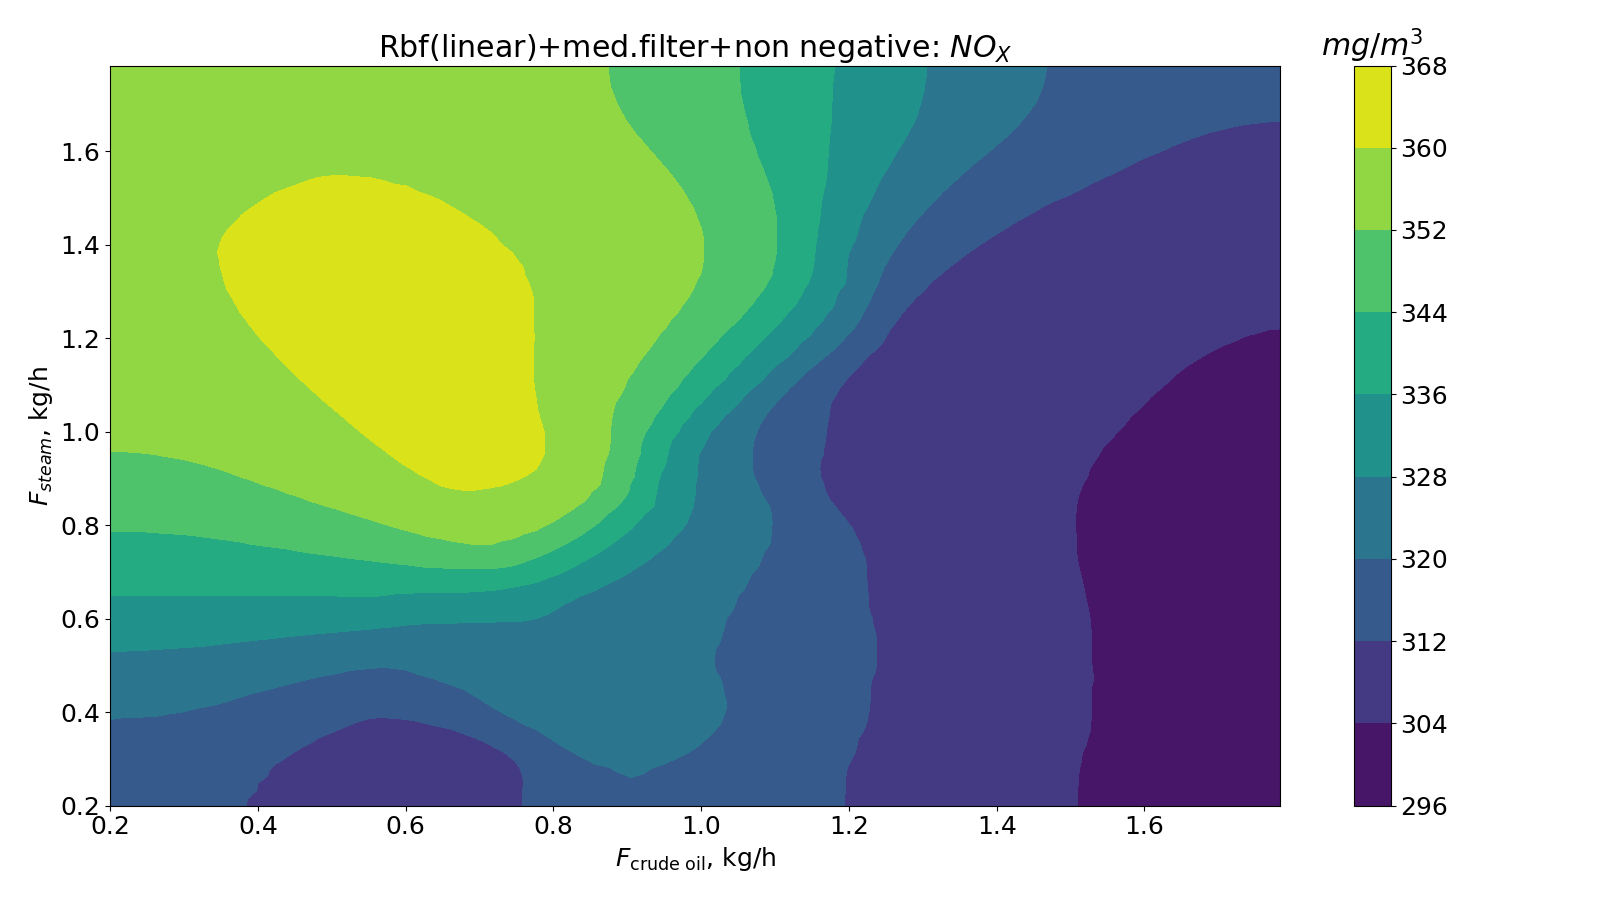
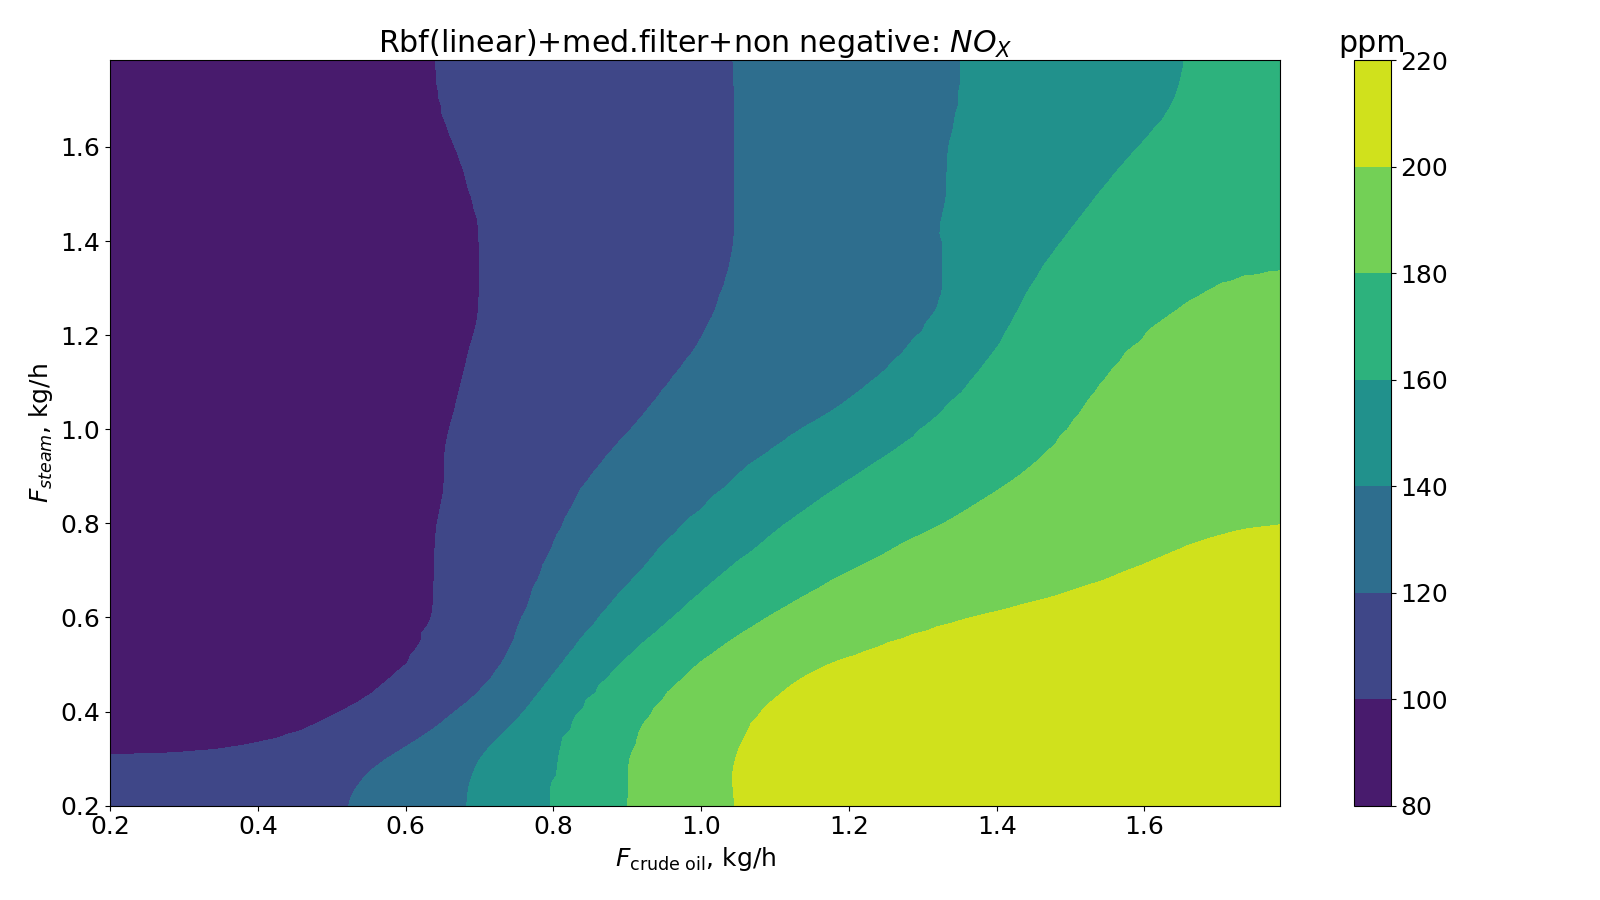
[Map] save_all_rbf_map добавлено сохранение всех карт в ppm и мг/м3

diff --git a/control/map.py b/control/map.py
@@ -110,7 +110,9 @@ class Map:
         Метод, который сохраняет аппроксимативные карты, созданные с помощью RbfInterpolator(linear), с удаленными
         отрицательными значениями и применением медианного фильтра.
         """
+        # Сохранение карт в ppm
         for experiment_parameters in self.available_variations:
+            break
             self.experiment_data.get_experiment_data(*experiment_parameters)
             fuel_axis, additive_axis, approximated_component_surface = self.experiment_data.get_rbf_data()
 
@@ -160,8 +162,6 @@ class Map:
             clb = plt.colorbar()
             if self.experiment_data.component_name in ["O2", "CO2"]:
                 clb.ax.set_title(r"vol.%")
-            elif self.experiment_data.component_name in COMPONENTS_TO_CONVERSATION_FROM_PPM_TO_MG_M3:
-                clb.ax.set_title(r"$mg/m^3$")
             else:
                 clb.ax.set_title("ppm")
 
@@ -174,6 +174,52 @@ class Map:
                 PATH_TO_RBF_PLOT + f"/{self.experiment_data.fuel_name}_{self.experiment_data.additive_name}_{self.experiment_data.component_name}.png"
             )
             plt.close()
+        # Сохранение карт в mg/m3
+        for experiment_parameters in self.available_variations:
+            if experiment_parameters[2] in COMPONENTS_TO_CONVERSATION_FROM_PPM_TO_MG_M3:
+                self.experiment_data.get_experiment_data(*experiment_parameters, convert_to_mg_m3=True)
+                fuel_axis, additive_axis, approximated_component_surface = self.experiment_data.get_rbf_data()
+
+                fig, ax = plt.subplots(figsize=(16, 9))
+                plt.rcParams.update({'font.size': 18})
+                ax.tick_params(axis='both', which='both', labelsize=18)
+
+                plt.contourf(fuel_axis, additive_axis, approximated_component_surface)
+
+                # Название графика
+                if self.experiment_data.component_name == 'CO':
+                    plt.title(r"Rbf(linear)+med.filter+non negative: $CO$")
+
+                elif self.experiment_data.component_name == 'NOx':
+                    plt.title(r"Rbf(linear)+med.filter+non negative: $NO_X$")
+
+                # Подписи осей
+                if self.experiment_data.fuel_name == 'waste_oil':
+                    ax.set_xlabel(r"$F_{\text{waste oil}}$, kg/h")
+
+                elif self.experiment_data.fuel_name == 'crude_oil':
+                    ax.set_xlabel(r"$F_{\text{crude oil}}$, kg/h")
+
+                elif self.experiment_data.fuel_name == 'heavy_oil':
+                    ax.set_xlabel(r"$F_{\text{heavy oil}}$, kg/h")
+
+                else:
+                    ax.set_xlabel(f"$F_{{{self.experiment_data.fuel_name}}}$, kg/h", fontsize=18)
+                ax.set_ylabel(f"$F_{{{self.experiment_data.additive_name}}}$, kg/h", fontsize=18)
+
+                # Подпись colorbar
+                clb = plt.colorbar()
+                clb.ax.set_title(r"$mg/m^3$")
+
+                plt.tight_layout()
+
+                plt.savefig(
+                    PATH_TO_RBF_PLOT + f"/{self.experiment_data.fuel_name}_{self.experiment_data.additive_name}_{self.experiment_data.component_name}_mg_m3.png"
+                )
+                plt.close()
+
+
+
 
     def save_all_rbd_map_to_excel(self):
         """

diff --git a/control/experiment_data.py b/control/experiment_data.py
@@ -33,12 +33,17 @@ class ExperimentData:
             print(f'По воздуху: {experiments[0]}, по пару: {experiments[1]}')
             print('---')
 
-    def get_experiment_data(self, fuel_name: str, additive_name: str, component_name: str) -> None:
+    def get_experiment_data(self,
+                            fuel_name: str,
+                            additive_name: str,
+                            component_name: str,
+                            convert_to_mg_m3: bool=False) -> None:
         """
         Метод, который присваивает атрибутам класса значения, указанные в параметрах атрибута и находит df со значениями
         экспериментов, если в базе данных нет проведенных экспериментов с данными параметрами вызывает Warning.
 
         Args:
+            convert_to_mg_m3: осуществлять перевод из ppm в мг/м3
             fuel_name: наименование топлива: diesel, crude_oil, heavy_oil, kerosene, waste_oil.
             additive_name: наименование добовочного компонента: air, steam.
             component_name: наименование компонета дымовых газов: O2, CO, NO и тд.
@@ -50,8 +55,9 @@ class ExperimentData:
         self.component_name = component_name
         self.df = self.database.get_experiment_data(fuel_name, additive_name, component_name)
 
-        if component_name in COMPONENTS_TO_CONVERSATION_FROM_PPM_TO_MG_M3:
-            self.df = self.conversion_from_ppm_to_mg_m3(self.df)
+        if convert_to_mg_m3:
+            if component_name in COMPONENTS_TO_CONVERSATION_FROM_PPM_TO_MG_M3:
+                self.df = self.conversion_from_ppm_to_mg_m3(self.df)
 
         self.averaging_duplicate_data()
 

diff --git a/main.py b/main.py
@@ -9,5 +9,3 @@ if __name__ == '__main__':
 
     m.save_all_rbf_map()
     #print(ex.get_rbf_data())
-
-
